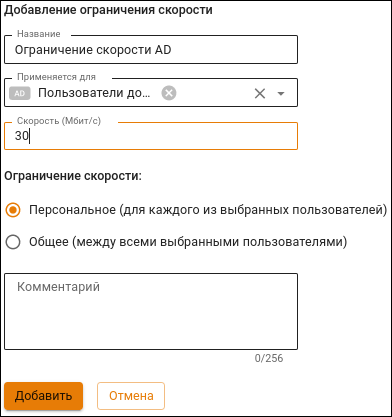
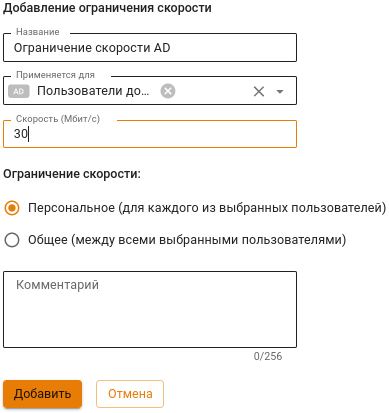
ICS-43515 УТМ. VTW. Блок статей Интеграция с AD

diff --git a/settings/users/active-directory/README.md b/settings/users/active-directory/README.md
@@ -1,6 +1,6 @@
 ---
 description: >-
-  Как настроить интеграцию с Microsoft Active Directory и Samba DC в ideco NGFW.
+  Как настроить интеграцию с Microsoft Active Directory и Samba DC в Ideco NGFW.
 ---
 
 # Интеграция с Microsoft Active Directory/Samba DC
@@ -10,15 +10,27 @@ description: >-
 Список служб для других разделов доступен по [ссылке](/settings/server-management/terminal/README.md).
 {% endhint %}
 
-В Ideco NGFW есть возможность односторонней синхронизации с контроллером домена на базе Microsoft Active Directory (AD) и Samba DC.
+В Ideco NGFW есть возможность односторонней синхронизации с контроллером домена на базе Microsoft Active Directory (AD) и Samba DC:
 
 * При интеграции импортируются учетные записи и номера телефонов пользователей, исключая пароли; 
 * При аутентификации пользователей проверка осуществляется средствами Active Directory или Samba DC.
 
-## Поддерживаемые контроллеры домена:
+## Поддерживаемые контроллеры домена
 
 * Windows Server 2008 (только R2), 2012, 2016, 2019, 2022;
 * Samba DC с версии 4.0.
+
+<details>
+
+<summary>Особенности интеграции с несколькими контроллерами домена</summary>
+
+* Из дерева контроллеров домена в Ideco NGFW импортируются данные только того контроллера, для которого был запущен импорт пользователей;
+
+* При импорте пользователей из разных доменов необходимо убедиться, что учетные записи не имеют одинаковых логинов. В противном случае система выдаст сообщение об ошибке;
+
+* При SSO-авторизации и первом открытии браузера пользователю будет предложен выбор домена для аутентификации. Выбор будет сохранен с помощью cookie и использован при следующей авторизации. Если требуется изменить домен, очистите cookie (для локального IP-адреса Ideco NGFW).
+
+</details>
 
 ## Настройка учетных записей и групп безопасности в качестве объектов фильтрации
 
@@ -32,7 +44,7 @@ description: >-
 
 #### Пример использования учетной записи, импортированной из Active Directory, для ограничения скорости:
 
-1\. Импортируйте из AD учетные записи или группы безопасности в разделе **Пользователи -> Учетные записи** (подробнее в статье [Импорт пользователей](user-import.md)). В этом примере импортируется группа безопасности AD **Пользователи домена**:
+1\. Импортируйте из AD учетные записи или группы безопасности в разделе **Пользователи -> Учетные записи** (подробнее - в статье [Импорт пользователей](user-import.md)). В этом примере импортируется группа безопасности AD **Пользователи домена**:
 
 ![](/.gitbook/assets/tree18.png)
 
@@ -42,8 +54,8 @@ description: >-
 
 ![](/.gitbook/assets/ad-shaper.png)
 
-* **Название** - название правила, например, Ограничение для менеджеров;
-* **Применяются для** - из выпадающего списка выберите отдельного пользователя и/или группу;
+* **Название** - название правила, например, Ограничение скорости AD;
+* **Применяются для** - выбор отдельного пользователя и/или группы;
 * **Cкорость (Мбит/с)** - лимит скорости для выбранных пользователей.
 
 Если в таблице большое количество интеграций, воспользуйтесь кнопкой **Фильтры**.

diff --git a/settings/users/active-directory/entering-the-server-into-the-domain.md b/settings/users/active-directory/entering-the-server-into-the-domain.md
@@ -5,10 +5,10 @@ description: >-
 
 # Ввод сервера в домен
 
-Перед вводом сервера в домен, проверьте: 
+Перед вводом сервера в домен, проверьте, что: 
 
-* Что время на контроллере домена и Ideco NGFW совпадает;
-* Что хотя бы один контроллер домена находится в локальной сети Ideco NGFW или доступен через локальный интерфейс с помощью настроенной маршрутизации.
+* Время на контроллере домена и Ideco NGFW совпадает;
+* Хотя бы один контроллер домена находится в локальной сети Ideco NGFW или доступен через локальный интерфейс с помощью настроенной маршрутизации.
 
 ## Ввод сервера в домен
 
@@ -25,7 +25,7 @@ description: >-
    * **Домен** - полное наименование домена, длина которого не должна превышать 64 символа. Например: `mydomain.example`;
    * **DNS-сервер AD** - адрес сервера, обладающего ролью DNS-сервера в контроллере домена, доступный с локального интерфейса Ideco NGFW;
    * **Название сервера Ideco NGFW** - имя компьютера, под которым Ideco NGFW будет введен в домен;
-   * **Учетная запись с правом присоединения к домену** - учетную запись Active Directory с правами присоединения к домену (право **Создание объектов: Компьютер**). Данные учетной записи с правом присоединения к домену не сохраняются на сервере и используются один раз при вводе в домен;
+   * **Учетная запись с правом присоединения к домену** - учетная запись Active Directory с правами присоединения к домену (право **Создание объектов: Компьютер**). Данные учетной записи с правом присоединения к домену не сохраняются на сервере и используются один раз при вводе в домен;
    * **LDAP-пути** - LDAP-пути для импорта пользователей и групп из выбранной [организационной единицы (OU)](https://serverspace.ru/support/help/kak-upravlyat-ou-v-active-directory/?utm_source=google.com&utm_medium=organic&utm_campaign=google.com&utm_referrer=google.com). Указание LDAP-путей позволяет импортировать только нужные группы пользователей, чтобы избежать импорта всего дерева пользователей Active Directory.
 
 Процесс присоединения к домену после нажатия одноименной кнопки может занять до одной минуты.\

diff --git a/settings/users/active-directory/active-directory-user-authorization.md b/settings/users/active-directory/active-directory-user-authorization.md
@@ -10,8 +10,9 @@ description: >-
 
 ## Настройка Ideco NGFW
 
-* Для пользователей, импортированных из Aсtive Directory, доступны все типы авторизации.
-* Для пользователей, импортированных из SambaDC, доступны все типы авторизации, кроме **авторизации через журнал безопасности**.
+Для пользователей, импортированных из Aсtive Directory, доступны все типы авторизации.
+
+Для пользователей, импортированных из SambaDC, доступны все типы авторизации, кроме **авторизации через журнал безопасности**.
 
 Способы аутентификации импортированных пользователей:
 
@@ -27,8 +28,7 @@ description: >-
 * **Доменное имя Ideco NGFW** - используйте доменное имя Ideco NGFW длиной не более 15 символов;
 * **Веб-аутентификация** - включите настройку и выберите **SSO-аутентификация через Active Directory и ALD Pro**;
 * **Авторизации через журнал безопасности Active Directory** - включите настройку, чтобы записывать события, связанные с проверкой прав доступа пользователей к ресурсам сети. Рекомендуем использовать совместно с SSO-аутентефикацией;
-* **Резавторизация пользователей** - установите тайм-аут [разавторизации пользователей](settings\users\active-directory\auto-de-authorization-script.md). Значение по умолчанию - 15 минут. Диапазон доступных значений - от 10 минут до 1 дня;
-* **Сохранить** - нажмите для сохранения.
+* **Разавторизация пользователей** - установите тайм-аут [разавторизации пользователей](settings\users\active-directory\auto-de-authorization-script.md). Значение по умолчанию - 15 минут. Диапазон доступных значений - от 10 минут до 1 дня.
 
 После сохранения настроек будет выдан Let’s Encrypt сертификат, пользователь будет перенаправляться на окно авторизации, минуя страницу исключения безопасности:
 

diff --git a/settings/users/active-directory/auto-de-authorization-script.md b/settings/users/active-directory/auto-de-authorization-script.md
@@ -9,10 +9,6 @@ description: >-
 
 Чтобы скрипт разавторизации работал корректно, установите на компьютеры пользователей корневой сертификат сервера Ideco NGFW и сделайте его доверенным. Это можно сделать как локально, так и через групповые политики домена, следуя [инструкции](/settings/access-rules/content-filter/filtering-https-traffic.md#dobavlenie-sertifikata-cherez-politiki-domena-microsoft-active-directory).
 
-{% hint style="info" %}
-При переходе с более ранних версий на Ideco NGFW v17 изменился скрипт автоматической разавторизации. Чтобы избежать ошибок, скачайте и перенастройте скрипт в соответствии с инструкцией ниже.
-{% endhint %}
-
 ## Скачивание и настройка скрипта
 
 1\. Чтобы скачать скрипт, перейдите в раздел **Пользователи -> Авторизация**. Включите опцию **Веб-аутентификация**, после чего появится кнопка **Скачать скрипт для разавторизации**:
@@ -37,7 +33,7 @@ description: >-
 
 7\. Откройте командную строку и обновите групповые политики, введя команду `gpupdate /force`. 
 
-* Для авторизации по SSO используйте [Ideco Client](/settings/users/ideco-client/README.md).
+Для авторизации по SSO используйте [Ideco Client](/settings/users/ideco-client/README.md).
 
 Если в вашем браузере появляется окно с текстом **Для получения доступа требуется аутентификация** и авторизация происходит только при ручном переходе по ссылке, включите JavaScript. Ниже представлены настройки для разных браузеров:
 
